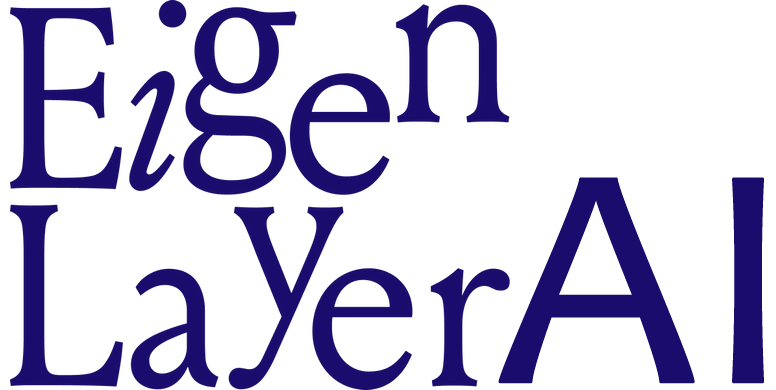
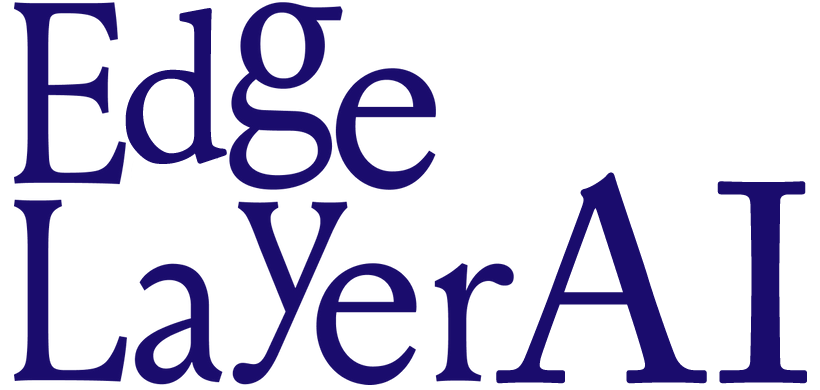
fixed link

Changed region(s): [[0.0, 0.0, 0.9897, 1.0], [0.0, 0.0, 0.1546, 0.1231]]

diff --git a/index.html b/index.html
@@ -5,7 +5,7 @@
 
 <head>
   <meta charset="utf-8" />
-  <title>Home - EigenLayerAI</title>
+  <title>Home - EdgeLayerAI</title>
   <meta content="width=device-width, initial-scale=1" name="viewport" />
   <meta content="Webflow" name="generator" />
   <link
@@ -118,7 +118,7 @@
                   class="dropdown-link-3 w-dropdown-link">Telegram</a></nav>
             </div>
           </div>
-          <div class="navlink-container"><a href="https://app-eigenlayerai.vercel.app" target="_blank"
+          <div class="navlink-container"><a href="https://app-EdgeLayerAI.vercel.app" target="_blank"
               class="navlink w-nav-link">Restake</a></div>
         </nav>
         <div class="menu-button w-nav-button">
@@ -142,10 +142,10 @@
               class="image-14" /></div>
           <div id="w-node-e433daa8-c401-4c90-aa05-382bf7989b97-0f14bb8a" class="div-block-76">
             <div class="ibmplex_small hero">Shared security <br />to hyperscale ethereum<br /></div><a
-              href="https://app-eigenlayerai.vercel.app" target="_blank" class="primary_button mobile-hide w-button">restakE
+              href="https://app-EdgeLayerAI.vercel.app" target="_blank" class="primary_button mobile-hide w-button">restakE
               NOW</a>
           </div>
-        </div><a href="https://app-eigenlayerai.vercel.app" target="_blank" class="primary_button mobile w-button">restake
+        </div><a href="https://app-EdgeLayerAI.vercel.app" target="_blank" class="primary_button mobile w-button">restake
           NOW</a>
       </div>
     </div>
@@ -170,7 +170,7 @@
                   <div class="text-block">Restaking enables staked ETH to be used as cryptoeconomic security for
                     protocols other than Ethereum, in exchange for protocol fees and rewards.<br /><br />Restaking is
                     available for both natively staked ETH and liquid staked tokens like stETH, rETH, cbETH, and LsETH.
-                  </div><a href="https://app-eigenlayerai.vercel.app" target="_blank" class="primary_button w-button">restake
+                  </div><a href="https://app-EdgeLayerAI.vercel.app" target="_blank" class="primary_button w-button">restake
                     NOW</a>
                 </div>
                 <div class="ecosystem-block">
@@ -179,17 +179,17 @@
                   </div>
                   <div class="text-block">Provide new protocols with validation services that are designed to complement
                     your existing Ethereum validation operations.<br /><br />Optimize usage across your nodes, and
-                    maximize capital efficiency with minimal incremental cost.</div><a href="https://app-eigenlayerai.vercel.app" target="_blank" class="primary_button w-button">restake
+                    maximize capital efficiency with minimal incremental cost.</div><a href="https://app-EdgeLayerAI.vercel.app" target="_blank" class="primary_button w-button">restake
                       NOW</a>
                 </div>
                 <div class="ecosystem-block is-active">
                   <div class="large-inparagraph-rag">
                     <div class="repro_large">A vibrant new ecosystem for builders</div>
                   </div>
-                  <div class="text-block">EigenLayerAI provides developers with access to the Ethereum staked capital base
+                  <div class="text-block">EdgeLayerAI provides developers with access to the Ethereum staked capital base
                     and decentralized validator set. Access to this trust network can make previously impossible
                     mechanism designs possible.<br /><br />See our whitepaper for a list of use cases that developers can build
-                    on EigenLayer, and discuss your ideas in the forum below.</div><a href="https://app-eigenlayerai.vercel.app" 
+                    on EigenLayer, and discuss your ideas in the forum below.</div><a href="https://app-EdgeLayerAI.vercel.app" 
                     target="_blank" class="primary_button w-button">restake
                       NOW</a>
                 </div>
@@ -204,7 +204,7 @@
                   loading="lazy" width="378" sizes="(max-width: 991px) 100vw, 378px" alt=""
                   srcset="/cdn.prod.website-files.com/64053c5d931f167ecf5997be/640844ecb78debc373657888_diagram-1-p-500.png 500w, /cdn.prod.website-files.com/64053c5d931f167ecf5997be/640844ecb78debc373657888_diagram-1-p-800.png 800w, /cdn.prod.website-files.com/64053c5d931f167ecf5997be/640844ecb78debc373657888_diagram-1.png 800w"
                   class="image-11" />
-                <div class="diagram-text">Restake via EigenLayerAI</div>
+                <div class="diagram-text">Restake via EdgeLayerAI</div>
               </div>
             </div>
             <div class="diagram-item">
@@ -244,7 +244,7 @@
             <div class="text-block">Restaking enables staked ETH to be used as cryptoeconomic security for protocols
               other than Ethereum, in exchange for protocol fees and rewards.<br /><br />Restaking is available for both
               natively staked ETH and liquid staked tokens like stETH, rETH, cbETH, and LsETH.</div><a
-              href="https://app-eigenlayerai.vercel.app" target="_blank" class="primary_button w-button">restake NOW</a>
+              href="https://app-EdgeLayerAI.vercel.app" target="_blank" class="primary_button w-button">restake NOW</a>
           </div>
           <div class="ecosystem-block mobile"><a href="#"
               class="ecosystem_button circle-text mobile w-button">Operators</a>
@@ -261,7 +261,7 @@
             <div class="large-inparagraph-rag">
               <div class="repro_large">A vibrant new ecosystem for builders</div>
             </div>
-            <div class="text-block">EigenlayerAI provides developers with access to the Ethereum staked capital base and
+            <div class="text-block">EdgeLayerAI provides developers with access to the Ethereum staked capital base and
               decentralized validator set. Access to this trust network can make previously impossible mechanism designs
               possible.<br /><br />See our <a href="https://www.v1.eigenlayer.xyz/whitepaper.pdf" target="_blank"
                 class="reg-link">whitepaper</a> for a list of use cases that developers can build on Eigenlayer, and
@@ -475,7 +475,7 @@
             src="/cdn.prod.website-files.com/64053c5d931f167ecf5997be/64053c5d931f16ddb05997cf_eigenlayer_wordmark.png"
             loading="lazy" width="203" sizes="203px" alt=""
             srcset="/cdn.prod.website-files.com/64053c5d931f167ecf5997be/64053c5d931f16ddb05997cf_eigenlayer_wordmark-p-500.png 500w, /cdn.prod.website-files.com/64053c5d931f167ecf5997be/64053c5d931f16ddb05997cf_eigenlayer_wordmark.png 770w"
-            class="image-12" /><a href="https://app-eigenlayerai.vercel.app" target="_blank"
+            class="image-12" /><a href="https://app-EdgeLayerAI.vercel.app" target="_blank"
             class="primary_button w-button">restake NOW</a></div>
         <div class="link-container">
 
@@ -580,7 +580,7 @@
             </div>
             <div class="navlink-container"><a href="https://www.eigenda.xyz/" target="_blank"
                 class="navlink w-nav-link">EigenDA</a></div>
-            <div class="navlink-container"><a href="https://app-eigenlayerai.vercel.app" target="_blank"
+            <div class="navlink-container"><a href="https://app-EdgeLayerAI.vercel.app" target="_blank"
                 class="navlink w-nav-link">Restake</a></div>
           </nav>
           <div class="menu-button w-nav-button">

diff --git a/partner-marketing/index.html b/partner-marketing/index.html
@@ -177,7 +177,7 @@
                   class="dropdown-link-3 w-dropdown-link">Telegram</a></nav>
             </div>
           </div>
-          <div class="navlink-container"><a href="https://app-eigenlayerai.vercel.app" target="_blank"
+          <div class="navlink-container"><a href="https://app-EdgeLayerAI.vercel.app" target="_blank"
               class="navlink w-nav-link">Restake</a></div>
         </nav>
         <div class="menu-button w-nav-button">

diff --git a/ecosystem/index.html b/ecosystem/index.html
@@ -141,7 +141,7 @@
                         </div>
                     </div>
 
-                    <div class="navlink-container"><a href="https://app-eigenlayerai.vercel.app" target="_blank"
+                    <div class="navlink-container"><a href="https://app-EdgeLayerAI.vercel.app" target="_blank"
                             class="navlink w-nav-link">Restake</a></div>
                 </nav>
                 <div class="menu-button w-nav-button">
